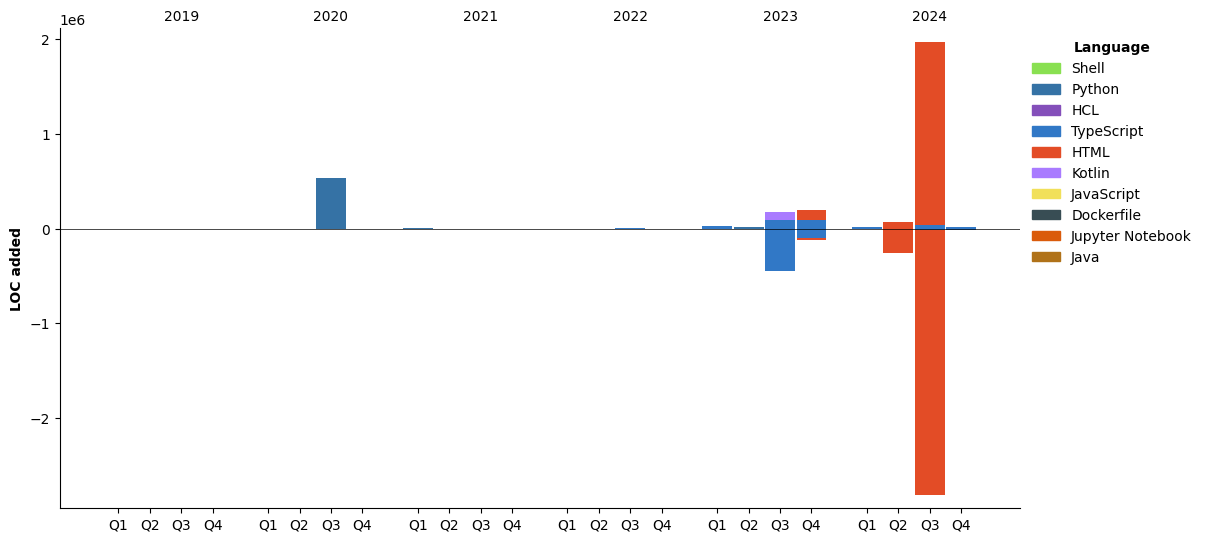
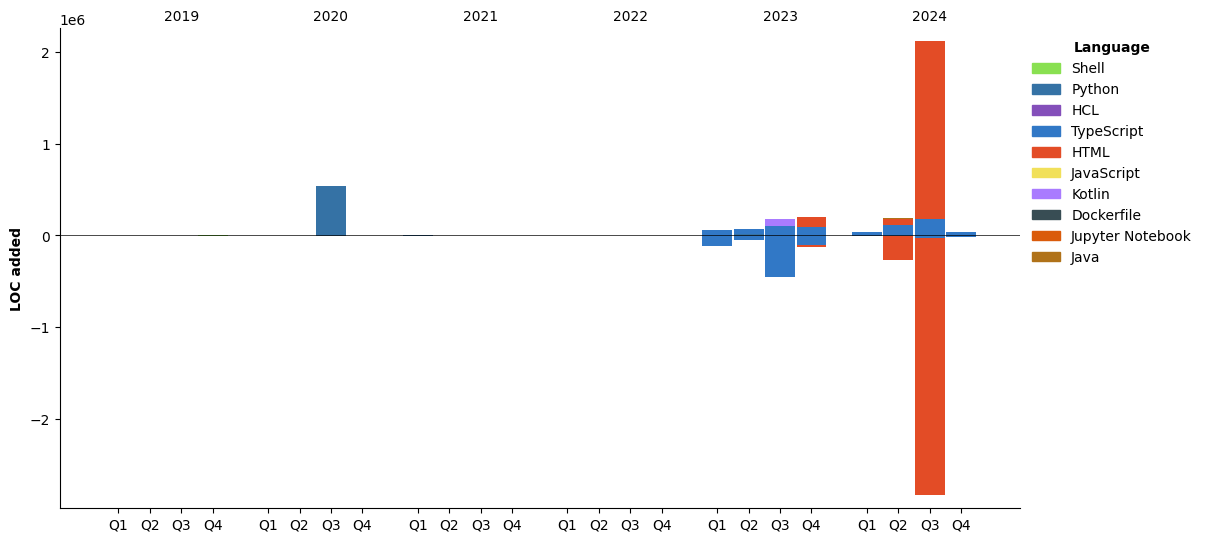
Updated with Dev Metrics

diff --git a/README.md b/README.md
@@ -50,5 +50,81 @@ These contributions are distributed amongst 206 repos.
 <h2>... and some detailed dev stats<h2>
 
 <!--START_SECTION:waka-->
+![Code Time](http://img.shields.io/badge/Code%20Time-932%20hrs%2053%20mins-blue)
 
+![Profile Views](http://img.shields.io/badge/Profile%20Views-0-blue)
+
+![Lines of code](https://img.shields.io/badge/From%20Hello%20World%20I%27ve%20Written-3.5%20million%20lines%20of%20code-blue)
+
+**🐱 My GitHub Data** 
+
+> 📦 385.4 kB Used in GitHub's Storage 
+ > 
+> 🏆 1,156 Contributions in the Year 2024
+ > 
+> 🚫 Not Opted to Hire
+ > 
+> 📜 17 Public Repositories 
+ > 
+> 🔑 29 Private Repositories 
+ > 
+**I'm an Early 🐤** 
+
+```text
+🌞 Morning                2278 commits        ██████░░░░░░░░░░░░░░░░░░░   25.70 % 
+🌆 Daytime                6342 commits        ██████████████████░░░░░░░   71.55 % 
+🌃 Evening                106 commits         ░░░░░░░░░░░░░░░░░░░░░░░░░   01.20 % 
+🌙 Night                  138 commits         ░░░░░░░░░░░░░░░░░░░░░░░░░   01.56 % 
+```
+📅 **I'm Most Productive on Tuesday** 
+
+```text
+Monday                   1806 commits        █████░░░░░░░░░░░░░░░░░░░░   20.37 % 
+Tuesday                  2162 commits        ██████░░░░░░░░░░░░░░░░░░░   24.39 % 
+Wednesday                1778 commits        █████░░░░░░░░░░░░░░░░░░░░   20.06 % 
+Thursday                 1353 commits        ████░░░░░░░░░░░░░░░░░░░░░   15.26 % 
+Friday                   1672 commits        █████░░░░░░░░░░░░░░░░░░░░   18.86 % 
+Saturday                 42 commits          ░░░░░░░░░░░░░░░░░░░░░░░░░   00.47 % 
+Sunday                   51 commits          ░░░░░░░░░░░░░░░░░░░░░░░░░   00.58 % 
+```
+
+
+📊 **This Week I Spent My Time On** 
+
+```text
+🕑 Time Zone: Europe/Berlin
+
+💬 Programming Languages: 
+TypeScript               10 hrs 29 mins      ███████████████████████░░   92.19 % 
+gitrebase                51 mins             ██░░░░░░░░░░░░░░░░░░░░░░░   07.58 % 
+YAML                     1 min               ░░░░░░░░░░░░░░░░░░░░░░░░░   00.19 % 
+Other                    0 secs              ░░░░░░░░░░░░░░░░░░░░░░░░░   00.02 % 
+JavaScript               0 secs              ░░░░░░░░░░░░░░░░░░░░░░░░░   00.02 % 
+
+🔥 Editors: 
+VS Code                  10 hrs 30 mins      ███████████████████████░░   92.42 % 
+Vim                      51 mins             ██░░░░░░░░░░░░░░░░░░░░░░░   07.58 % 
+
+💻 Operating System: 
+Mac                      11 hrs 22 mins      █████████████████████████   100.00 % 
+```
+
+**I Mostly Code in Python** 
+
+```text
+Python                   78 repos            █████████░░░░░░░░░░░░░░░░   34.21 % 
+TypeScript               38 repos            ████░░░░░░░░░░░░░░░░░░░░░   16.67 % 
+Shell                    13 repos            █░░░░░░░░░░░░░░░░░░░░░░░░   05.70 % 
+Dockerfile               7 repos             █░░░░░░░░░░░░░░░░░░░░░░░░   03.07 % 
+Jupyter Notebook         1 repo              ░░░░░░░░░░░░░░░░░░░░░░░░░   00.44 % 
+```
+
+
+
+**Timeline**
+
+![Lines of Code chart](https://raw.githubusercontent.com/scornejob/scornejob/master/assets/bar_graph.png)
+
+
+ Last Updated on 05/11/2024 03:06:23 UTC
 <!--END_SECTION:waka-->
